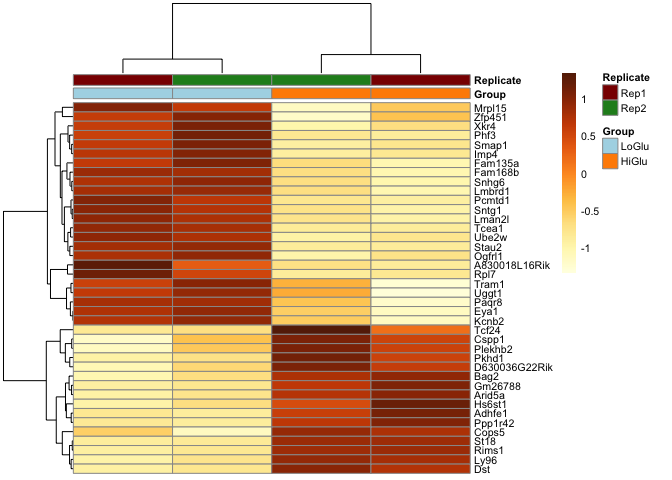
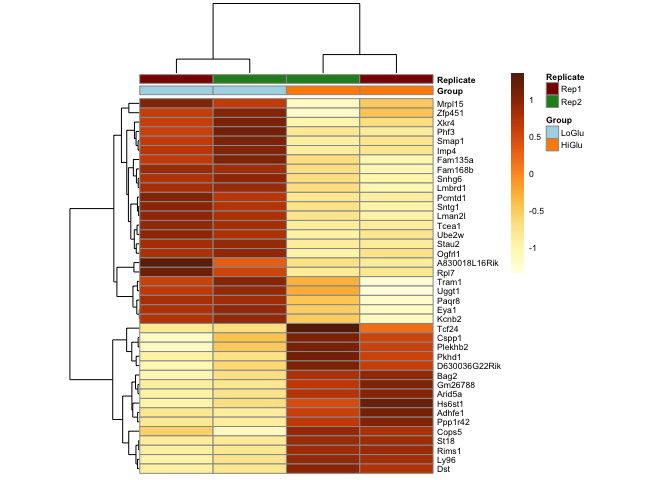
Update volcano + PCA plots
minor typos

diff --git a/README.md b/README.md
@@ -177,8 +177,9 @@ The first step before processing any samples is to analyze the quality of the da
 After analyzing the quality of the data, the next step is to remove sequences/nucleotides that do not meet your quality standards. There are a multitude of quality control pacakges, but trim\_galore combines **Cutadapt** (<http://cutadapt.readthedocs.io/en/stable/guide.html>) and **FastQC** to remove low quality sequences while performing quality analysis to see the effect of filtering.
 
 The 2 most import parameters to select are what the minimum Phred score (1-30) and a minimum sequencing length. There are different views on this parameter and you can see the papers below for more information about which parameters to use. A good estimate is typically a Phred score of 20 (99% confidence) and a minimum of 50-70% of the sequence length.
-<https://bmcbioinformatics.biomedcentral.com/articles/10.1186/s12859-016-0956-2> <https://genomebiology.biomedcentral.com/articles/10.1186/s13059-016-0881-8>
-<http://www.epigenesys.eu/images/stories/protocols/pdf/20150303161357_p67.pdf>
+- <https://bmcbioinformatics.biomedcentral.com/articles/10.1186/s12859-016-0956-2>
+- <https://genomebiology.biomedcentral.com/articles/10.1186/s13059-016-0881-8>
+- <http://www.epigenesys.eu/images/stories/protocols/pdf/20150303161357_p67.pdf>
 
 #### Installation
 
@@ -582,6 +583,8 @@ mcols(results, use.names = T)
     ## pvalue              results      Wald test p-value: Group LoGlu vs HiGlu
     ## padj                results                        fdr adjusted p-values
 
+------------------------------------------------------------------------
+
 ### Step 8. Annotate gene symbols
 
 After alignment and summarization, we only have the annotated gene symbols. To get more information about significant genes, we can use annoated databases to convert gene symbols to full gene names and entrez ID's for further analysis.
@@ -688,7 +691,7 @@ write.table(x = as.data.frame(results_sig),
 
 There are multiple ways to plot gene expression data. Below we are only listing a few popular methods, but there are many more resources (**Going Further**) that will walk through different R commands/packages for plotting.
 
-#### 9a. PCA plot
+##### 9a. PCA plot
 
 ``` r
 # Convert all samples to rlog
@@ -697,7 +700,10 @@ ddsMat_rlog <- rlog(ddsMat, blind = FALSE)
 # Plot PCA by column variable
 plotPCA(ddsMat_rlog, intgroup = "Group", ntop = 500) +
   theme_bw() + # remove default ggplot2 theme
-  geom_point(size = 5) # Increase point size
+  geom_point(size = 5) + # Increase point size
+  scale_y_continuous(limits = c(-5, 5)) + # change limits to fix figure dimensions
+  ggtitle(label = "Principal Component Analysis (PCA)", 
+          subtitle = "Top 500 most variable genes") 
 ```
 
 ![](README_files/figure-markdown_github/pca_plot-1.png)
@@ -720,18 +726,19 @@ annotation_col = data.frame(
 
 # Specify colors you want to annotate the columns by.
 ann_colors = list(
-  Group = c("LoGlu" = "lightblue", "HiGlu" = "darkorange"),
+  Group = c(LoGlu = "lightblue", HiGlu = "darkorange"),
   Replicate = c(Rep1 = "darkred", Rep2 = "forestgreen")
 )
 
 # Make Heatmap with pheatmap function.
-# See more in documentation for customization
+## See more in documentation for customization
 pheatmap(mat = mat, 
          color = colorRampPalette(brewer.pal(9, "YlOrBr"))(255), 
-         scale = "row", 
-         annotation_col = annotation_col, 
-         annotation_colors = ann_colors, 
-         fontsize = 8,
+         scale = "row", # Scale genes to Z-score (how many standard deviations)
+         annotation_col = annotation_col, # Add multiple annotations to the samples
+         annotation_colors = ann_colors,# Change the default colors of the annotations
+         fontsize = 6.5, # Make fonts smaller
+         cellwidth = 55, # Make the cells wider
          show_colnames = F)
 ```
 
@@ -741,6 +748,7 @@ pheatmap(mat = mat,
 
 ``` r
 # Gather Log-fold change and FDR-corrected pvalues from DESeq2 results
+## - Change pvalues to -log10 (1.3 = 0.05)
 data <- data.frame(pval = -log10(results$padj), 
                    lfc = results$log2FoldChange, 
                    row.names = row.names(results))
@@ -748,19 +756,29 @@ data <- data.frame(pval = -log10(results$padj),
 # Remove any rows that have NA as an entry
 data <- na.omit(data)
 
+# Color the points which are up or down
+## If fold-change > 0 and pvalue > 1.3 (Increased significant)
+## If fold-change < 0 and pvalue > 1.3 (Decreased significant)
+data <- mutate(data, color = ifelse(test = lfc > 0 & pval > 1.3, 
+                                    yes = "Increased", 
+                                    no = ifelse(test = lfc < 0 & pval > 1.3, 
+                                                yes = "Decreased", 
+                                                no = "nonsignificant")))
+
 # Make a basic ggplot2 object with x-y values
-vol <- ggplot(data, aes(x = lfc, y = pval))
+vol <- ggplot(data, aes(x = lfc, y = pval, color = color))
 
 # Add ggplot2 layers
 vol +   
-  ggtitle(label = "Volcano Plot") +
-  geom_point(aes(colour = pval), size = 5, alpha = 0.7, na.rm = T) + # color the dots
+  ggtitle(label = "Volcano Plot", subtitle = "Colored by fold-change directionality") +
+  geom_point(size = 2.5, alpha = 0.8, na.rm = T) +
+  scale_color_manual(name = "Directionality",
+                     values = c(Increased = "#008B00", Decreased = "#CD4F39", nonsignificant = "darkgray")) +
   theme_bw(base_size = 14) + # change overall theme
   theme(legend.position = "right") + # change the legend
   xlab(expression(log[2]("LoGlu" / "HiGlu"))) + # Change X-Axis label
   ylab(expression(-log[10]("adjusted p-value"))) + # Change Y-Axis label
   geom_hline(yintercept = 1.3, colour = "darkgrey") + # Add p-adj value cutoff line
-  scale_colour_gradient(low = "red", high = "green") + # Add red-green scaling by intensity
   scale_y_continuous(trans = "log1p") # Scale yaxis due to large p-values
 ```
 
@@ -776,7 +794,7 @@ plotMA(results, ylim = c(-5, 5))
 
 ![](README_files/figure-markdown_github/ma_plot-1.png)
 
-##### 9d. Plot Dispersions
+##### 9e. Plot Dispersions
 
 ``` r
 plotDispEsts(ddsMat)
@@ -784,7 +802,7 @@ plotDispEsts(ddsMat)
 
 ![](README_files/figure-markdown_github/dispersions-1.png)
 
-#### 9e. Single gene plot
+##### 9f. Single gene plot
 
 ``` r
 # Convert all samples to rlog
@@ -794,7 +812,8 @@ ddsMat_rlog <- rlog(ddsMat, blind = FALSE)
 top_gene <- rownames(results)[which.min(results$log2FoldChange)]
 
 # Plot single gene
-plotCounts(ddsMat, gene = top_gene, 
+plotCounts(dds = ddsMat, 
+           gene = top_gene, 
            intgroup = "Group", 
            normalized = T, 
            transform = T)
@@ -806,9 +825,9 @@ plotCounts(ddsMat, gene = top_gene,
 
 ### Step 10. Finding Pathways from Differential Expressed Genes
 
-Pathway enrichment analysis is a great way to generate overall conclusions based on the individual gene changes. Sometimes individiual gene changes are overwheling and are difficult to interpret. But by analyzing which genes may fall into different pathways, we can get a better idea of what mRNA changes in relation to phenotype are occuring. More information about **clusterProfiler** here: <http://bioconductor.org/packages/release/bioc/vignettes/clusterProfiler/inst/doc/clusterProfiler.html>
+Pathway enrichment analysis is a great way to generate overall conclusions based on the individual gene changes. Sometimes individiual gene changes are overwheling and are difficult to interpret. But by analyzing the pathways the genes fall into, we can gather a top level view of gene responses. You can find more information about **clusterProfiler** here: <http://bioconductor.org/packages/release/bioc/vignettes/clusterProfiler/inst/doc/clusterProfiler.html>
 
-#### 10a. Set up matrix to take into account EntrezID's and fold changes for each gene
+##### 10a. Set up matrix to take into account EntrezID's and fold changes for each gene
 
 ``` r
 # Remove any genes that do not have any entrez identifiers
@@ -821,15 +840,15 @@ gene_matrix <- results_sig_entrez$log2FoldChange
 names(gene_matrix) <- results_sig_entrez$entrez
 
 # View the format of the gene matrix
-## Names = ENTREZ ID
-## Values = Log2 Fold changes
+##- Names = ENTREZ ID
+##- Values = Log2 Fold changes
 head(gene_matrix)
 ```
 
     ##     497097      27395      21399     240690     319263      71096 
     ##  0.6419222  0.3980896  1.3944884 -0.9991301  0.3902411  0.7318962
 
-#### 10b. Enrich genes using the KEGG database
+##### 10b. Enrich genes using the KEGG database
 
 ``` r
 kegg_enrich <- enrichKEGG(gene = names(gene_matrix),
@@ -847,7 +866,7 @@ barplot(kegg_enrich,
 
 ![](README_files/figure-markdown_github/kegg_enrich-1.png)
 
-#### 10b. Enrich genes using the Gene Onotlogy
+##### 10c. Enrich genes using the Gene Onotlogy
 
 ``` r
 go_enrich <- enrichGO(gene = names(gene_matrix),
@@ -889,15 +908,15 @@ pathview(gene.data = gene_matrix,
 ### Going further with RNAseq analysis
 
 You can the links below for a more in depth walk through of RNAseq analysis using R:
-<http://www.bioconductor.org/help/workflows/rnaseqGene/>
-<http://bioconnector.org/workshops/r-rnaseq-airway.html>
-<http://www-huber.embl.de/users/klaus/Teaching/DESeq2Predoc2014.html>
-<http://www-huber.embl.de/users/klaus/Teaching/DESeq2.pdf>
-<https://web.stanford.edu/class/bios221/labs/rnaseq/lab_4_rnaseq.html>
-<http://www.rna-seqblog.com/which-method-should-you-use-for-normalization-of-rna-seq-data/>
-<http://www.rna-seqblog.com/category/technology/methods/data-analysis/data-visualization/>
-<http://www.rna-seqblog.com/category/technology/methods/data-analysis/pathway-analysis/>
-<http://www.rna-seqblog.com/inferring-metabolic-pathway-activity-levels-from-rna-seq-data/>
+- <http://www.bioconductor.org/help/workflows/rnaseqGene/>
+- <http://bioconnector.org/workshops/r-rnaseq-airway.html>
+- <http://www-huber.embl.de/users/klaus/Teaching/DESeq2Predoc2014.html>
+- <http://www-huber.embl.de/users/klaus/Teaching/DESeq2.pdf>
+- <https://web.stanford.edu/class/bios221/labs/rnaseq/lab_4_rnaseq.html>
+- <http://www.rna-seqblog.com/which-method-should-you-use-for-normalization-of-rna-seq-data/>
+- <http://www.rna-seqblog.com/category/technology/methods/data-analysis/data-visualization/>
+- <http://www.rna-seqblog.com/category/technology/methods/data-analysis/pathway-analysis/>
+- <http://www.rna-seqblog.com/inferring-metabolic-pathway-activity-levels-from-rna-seq-data/>
 
 ------------------------------------------------------------------------
 
